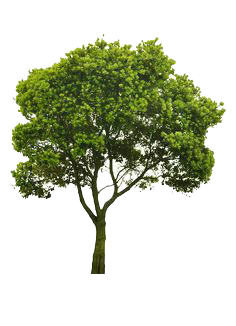
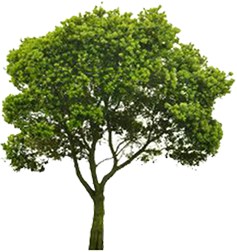
Form theme + thank you page - in progress

diff --git a/app/assets/stylesheets/leads.scss b/app/assets/stylesheets/leads.scss
@@ -2,8 +2,50 @@
 // They will automatically be included in application.css.
 // You can use Sass (SCSS) here: http://sass-lang.com/
 
+.parent {
+  display: block;
+margin: 0px;
+padding: 0px;
+position: relative;
+top: 90px;
+height: auto;
+max-width: auto;
+overflow-y: hidden;
+overflow-x:auto;
+
+}
+label[for=lead_plant_id_10] {
+  text-align:center;
+  margin-left:-13%;
+  padding-bottom:10%;
+}
+
+
+label[for=lead_plant_id_11] {
+  float: left;
+  margin-left:36%;
+  margin-top: -54%;
+}
+
+label[for=lead_plant_id_12] {
+  float: left;
+  margin-left:70%;
+  margin-top: -54%;
+  height:100%;
+  width: 70%;
+-webkit-align-self: center; /* Safari 7.0+ */
+    align-self: center;
+}
+
+
+
 .form-control {
-  width: 80%;
+  width: 100%;
+
+}
+
+.color {
+  background-color: #8ac53a;
 }
 
 .row {
@@ -15,8 +57,12 @@
   padding-right: 5px;
   padding-left: 5px;
   
-}
+} 
 
+.btn-group {
+  width:100%;
+  margin-left:15%;
+}
 .caption-3 {
   float: left;
   margin-right: 2%;
@@ -29,10 +75,10 @@
 }
 
 .parent {
-    margin-bottom: 15px;
-    padding: 10px;
+    margin-bottom: 10px;
+    padding: 2px;
     color: #0A416B;
-    clear:both;
+   
 }
 .left, .center, .right{
     float:left;
@@ -40,18 +86,120 @@
     padding:5px;
 
 }
+.img-tree {
+  height:10%;
+  width: 35%;
+
+}
+.form-horizontal{
+  width:70%;
+}
 h1 {
-  color: #87ba45;
-  
+  color: #8ac53a;
+  margin-left:25%;
+  text-shadow: 2px 2px #D3D3D3;
+  font-weight: bold;
+}
+h3 {
+  margin-left: 27%;
 }
 .radio-inline {
-  width: 10%;
-  align-content: center;;
+  width: 3%;
+  align-content: center;
+}
+.radio_buttons {
+  margin-top:-1%;
 }
 
-.add1 {
-  width: 80%;
+.form-drop {
+ margin-left: 30%;
+ 
 }
 .form-width {
-  width: 41%;
+  width: 46%;
+}
+
+.row {
+ margin-left: 10%;
+}
+.input-lg{
+  width: 150%;
+  margin-left:-25%;
+}
+.mainselection select {
+   border: 0;
+   color: black;
+   background: transparent;
+   font-size: 15px;
+   font-weight: bold;
+   padding: 2px 10px;
+   width: 378px;
+   *width: 200px;
+   *background: #58B14C;
+   -webkit-appearance: none;
+}
+.mainselection {
+   overflow:hidden;
+   width:350px;
+   -moz-border-radius: 9px 9px 9px 9px;
+   -webkit-border-radius: 9px 9px 9px 9px;
+   border-radius: 9px 9px 9px 9px;
+   box-shadow: 1px 1px 11px #330033;
+   margin-left: 20%;
+   background-color: #419641; 
+   background: #58B14C url("http://i62.tinypic.com/15xvbd5.png") no-repeat scroll 319px center;
+}
+.t1{
+  text-decoration: bold;
+  margin-left:17%;
+}
+.t3{
+  margin-left: 3%;
+  font-size:15px;
+  font-weight: 10%;
+  color: black;
+}
+.col-sm-6 {
+  width: 80%;
+  background-color: #f5f5f5;
+  margin-left: 10%;
+  height: 70%;
+}
+.col-sm-6 p{
+  margin-left: 20%;
+  color: gray;
+  text-align: left;
+}
+.col-sm-6 strong {
+  padding-right:20%;
+}
+
+.img-responsive2{
+  width: 130%;
+  margin-right: 40%;
+  padding-right: 5%;
+  padding-right: 5%;
+}
+.img-responsive {
+width: 10%;
+ 
+}
+.col-sm-4 {
+ padding-right: 2%;
+  padding-right: 2%; 
+
+}
+.col-sm-4 p{
+  text-align: center;
+  padding-right: 8%;
+  padding-right: 8%;
+}
+._center {
+  width:120%;
+  margin-left: 38%;
+  padding-bottom:3%;
+}
+.container {
+  width: 65%;
+  margin-left: 15%;
 }

diff --git a/app/services/create_plants_service.rb b/app/services/create_plants_service.rb
@@ -1,7 +1,8 @@
 class CreatePlantsService
   def call
-    Plant.create!(name: "Plant 1", price: 500, detail: "Lorem ipsum")
-    Plant.create!(name: "Plant 2", price: 1500, detail: "Lorem ipsum")
-    Plant.create!(name: "Plant 3", price: 2000, detail: "Lorem ipsum")
+    Plant.destroy_all
+    Plant.create!(name: "Small Tree", price: 500, detail: "This is a small tree", image: "tree-small.png")
+    Plant.create!(name: "Medium Tree", price: 1500, detail: "This is a medium tree", image: "tree-medium.png")
+    Plant.create!(name: "Large Tree", price: 2000, detail: "This is a large tree", image: "tree-large.png")
   end
 end

diff --git a/db/schema.rb b/db/schema.rb
@@ -10,7 +10,7 @@
 #
 # It's strongly recommended that you check this file into your version control system.
 
-ActiveRecord::Schema.define(version: 20170609044735) do
+ActiveRecord::Schema.define(version: 20170613100007) do
 
   # These are extensions that must be enabled in order to support this database
   enable_extension "plpgsql"
@@ -52,6 +52,7 @@ ActiveRecord::Schema.define(version: 20170609044735) do
     t.string "detail"
     t.datetime "created_at", null: false
     t.datetime "updated_at", null: false
+    t.string "image"
   end
 
   create_table "users", force: :cascade do |t|

diff --git a/app/controllers/leads_controller.rb b/app/controllers/leads_controller.rb
@@ -14,7 +14,7 @@ class LeadsController < ApplicationController
     @wizard = ModelWizard.new(Lead, session, params, lead_params).continue
     @lead = @wizard.object
     if @wizard.save
-      redirect_to @lead, notice: "Thank you!"
+      redirect_to @lead
     else
       render :new
     end

diff --git a/app/models/plant.rb b/app/models/plant.rb
@@ -1,5 +1,5 @@
 class Plant < ApplicationRecord
-  has_many :leads
+  has_many :leads, dependent: :destroy
 
   def name_with_price_label
     name + "- RS. " + price.to_s

diff --git a/db/migrate/20170613100007_add_image_to_plants.rb b/db/migrate/20170613100007_add_image_to_plants.rb
@@ -1,0 +1,5 @@
+class AddImageToPlants < ActiveRecord::Migration[5.1]
+  def change
+    add_column :plants, :image, :string
+  end
+end
